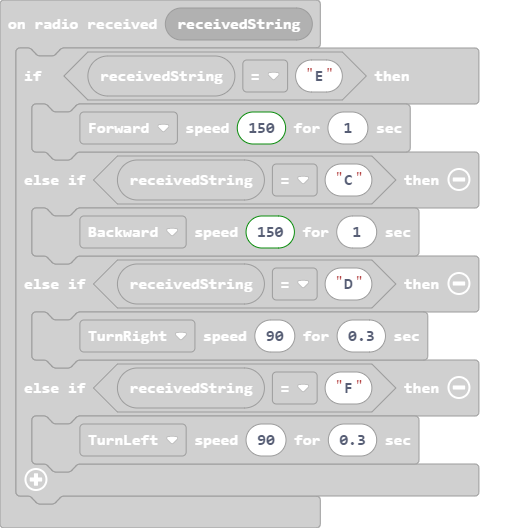
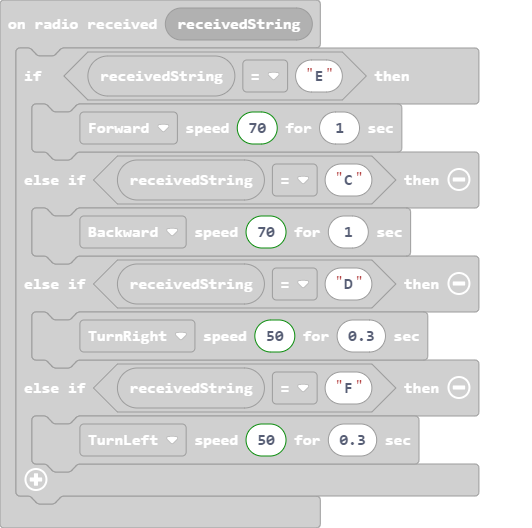
Update main.blocks, main.ts

diff --git a/main.ts b/main.ts
@@ -4,13 +4,13 @@ radio.onReceivedNumber(function (receivedNumber) {
 })
 radio.onReceivedString(function (receivedString) {
     if (receivedString == "E") {
-        AlphaBot2.RunDelay(Dir.forward, 150, 1)
+        AlphaBot2.RunDelay(Dir.forward, 70, 1)
     } else if (receivedString == "C") {
-        AlphaBot2.RunDelay(Dir.backward, 150, 1)
+        AlphaBot2.RunDelay(Dir.backward, 70, 1)
     } else if (receivedString == "D") {
-        AlphaBot2.RunDelay(Dir.turnRight, 90, 0.3)
+        AlphaBot2.RunDelay(Dir.turnRight, 50, 0.3)
     } else if (receivedString == "F") {
-        AlphaBot2.RunDelay(Dir.turnLeft, 90, 0.3)
+        AlphaBot2.RunDelay(Dir.turnLeft, 50, 0.3)
     }
 })
 radio.onReceivedValue(function (name, value) {
